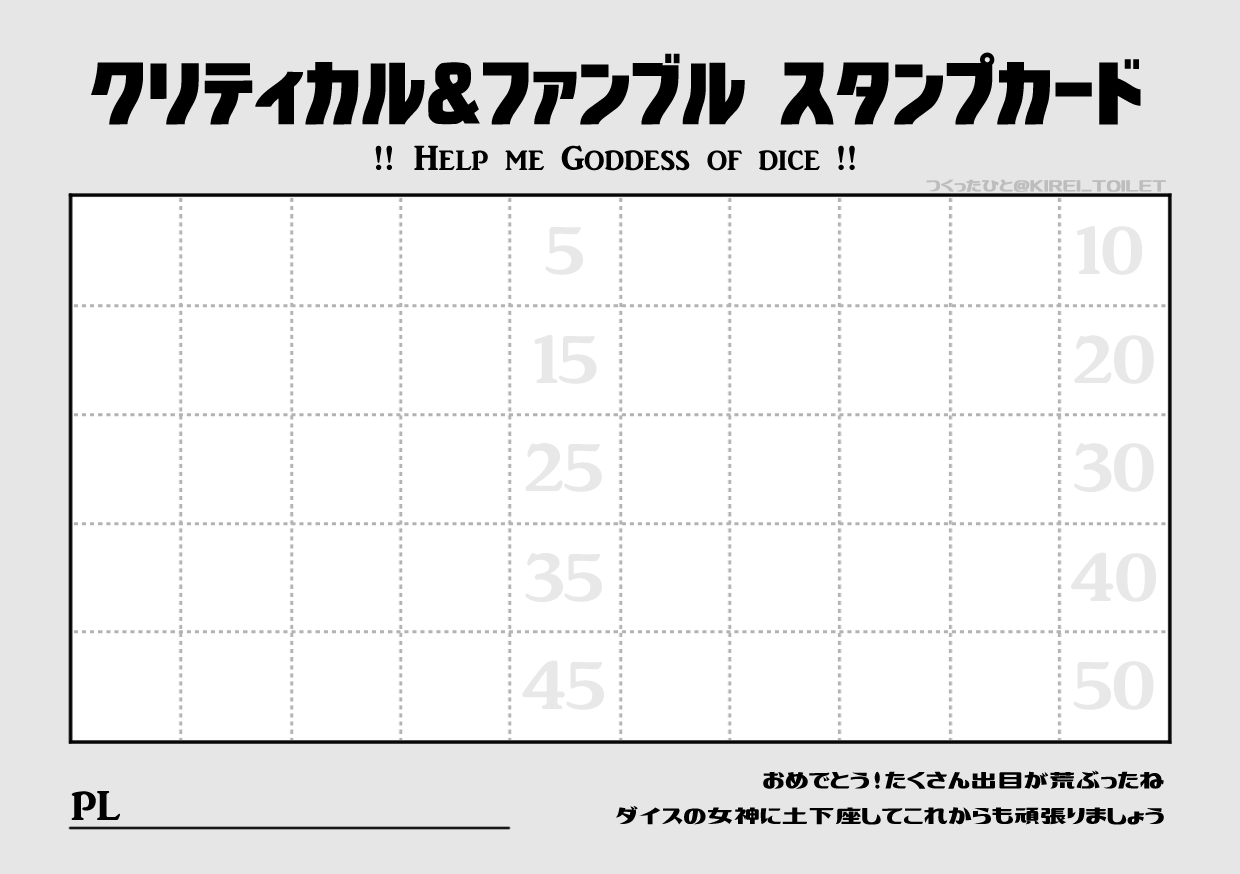
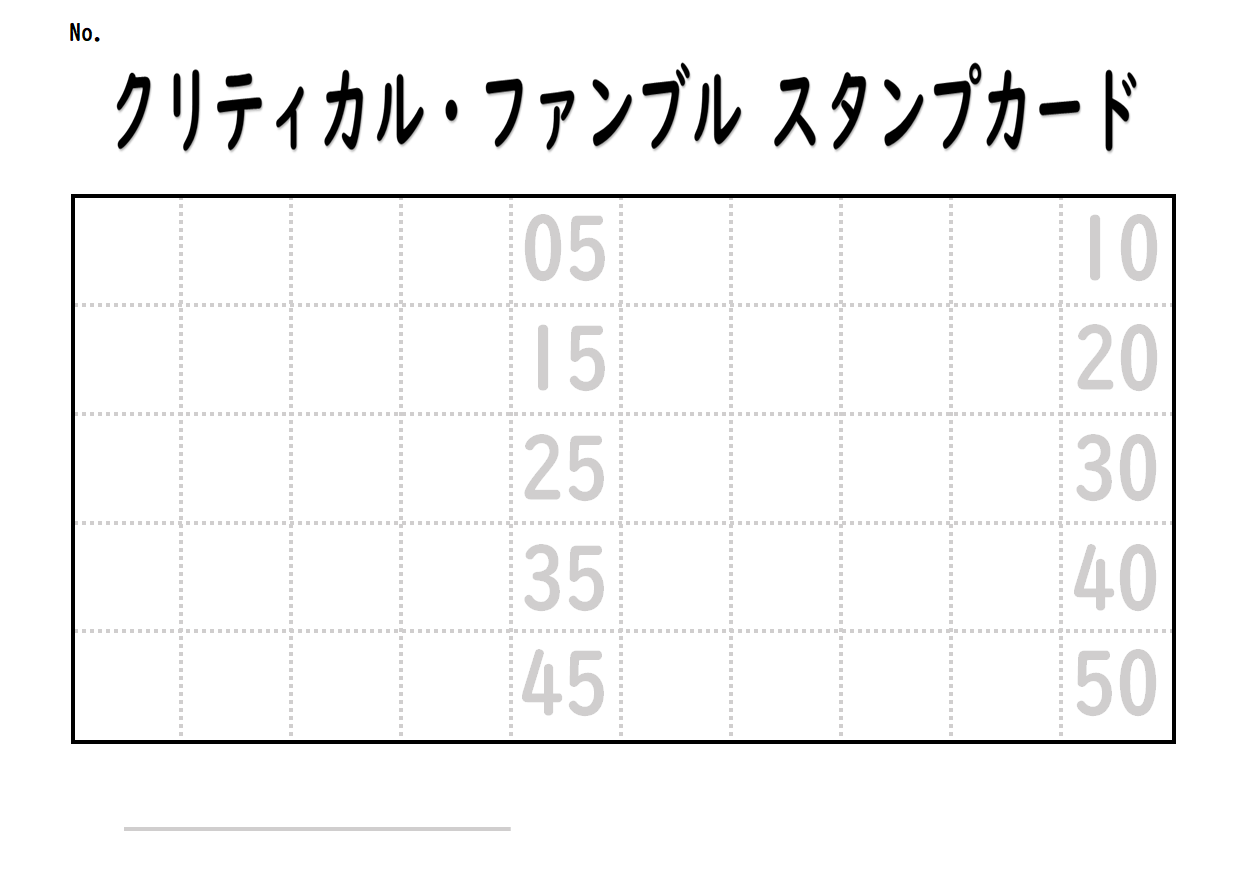
replace card

diff --git a/crifum.js b/crifum.js
@@ -5,11 +5,7 @@ const STUMP_CATEGORIES = {
 
 const draw_record_regexp = /([a-zA-Z]+)(\d\d)(\d\d)/;
 
-const draw = (params) => {
-    const base = document.getElementById('base');
-    base.className = params.get('visual') || 'default';
-    base.append(buildTable());
-
+const drawRecords = (params) => {
     const records = stumpList(params);
     records.forEach((d, i)=>{
         const stump = document.createElement('div');
@@ -26,6 +22,26 @@ const draw = (params) => {
 
         document.getElementById(`stump${numberToString(i)}`).append(stump);
     });
+    return records;
+}
+
+const drawNumber = (params) => {
+    const num = params.get('no') || '1';
+    const base = document.getElementById('base');
+    const numberDom = document.createElement('div');
+    numberDom.id = 'number';
+    numberDom.textContent = num;
+    base.append(numberDom);
+    return num;
+};
+
+const draw = (params) => {
+    const base = document.getElementById('base');
+    base.className = params.get('visual') || 'default';
+    base.append(buildTable());
+
+    drawRecords(params);
+    drawNumber(params);
 };
 
 const numberToString = (num) => {
@@ -79,7 +95,7 @@ const addInfo = (params) => {
     footer.append(developerInfo);
 
     const stumpBaseInfo = document.createElement('div');
-    stumpBaseInfo.innerHTML = `このツールはスタンプカードは @KIREI_TOILET さんがフリーで配布なさっているクリファンスタンプカードに着想を得て作成していますが、配布元とは無関係です（<a href="https://twitter.com/kirei_toilet/status/1290950684947304448" target="_blank">配布元</a>）`;
+    stumpBaseInfo.innerHTML = `このツールは <a href="https://twitter.com/kirei_toilet/" target="_blank">@KIREI_TOILET さん</a>がフリーで配布なさっているクリファンスタンプカードに着想を得て作成していますが、配布元とは無関係です`;
     footer.append(stumpBaseInfo);
 
     document.getElementById('base').append(footer);

diff --git a/crifum.css b/crifum.css
@@ -5,6 +5,18 @@
 	font-family: "BIZ UDゴシック","UD Shin Go NT Light JIS2004","UD デジタル 教科書体 N-R", Verdana, Roboto, "Droid Sans", "游ゴシック", YuGothic, "メイリオ", Meiryo, "ヒラギノ角ゴ ProN W3", "Hiragino Kaku Gothic ProN", "ＭＳ Ｐゴシック", sans-serif;
 }
 
+
+#base {
+    position:relative;
+}
+
+#number {
+    position:absolute;
+    top:12px;
+    left:108px;
+    font-size:2em;
+}
+
 td {
     width:40px;
     height:60px;
@@ -12,7 +24,7 @@ td {
 
 footer {
     padding-top:8px;
-    font-size:60%;
+    font-size:80%;
     left:0px;
     right:0px;
     bottom:0px;
@@ -21,14 +33,18 @@ footer {
     width:100%;
 }
 
+footer > div {
+    padding:4px;
+}
+
 .default table {
     width: 1240px;
     height: 874px;
     background-image: url("./img/default/card.png");
-    padding-top:193px;
-    padding-left:69px;
-    padding-right:69px;
-    padding-bottom:140px;
+    padding-top:195px;
+    padding-left:72px;
+    padding-right:66px;
+    padding-bottom:138px;
 }
 
 .default td {
